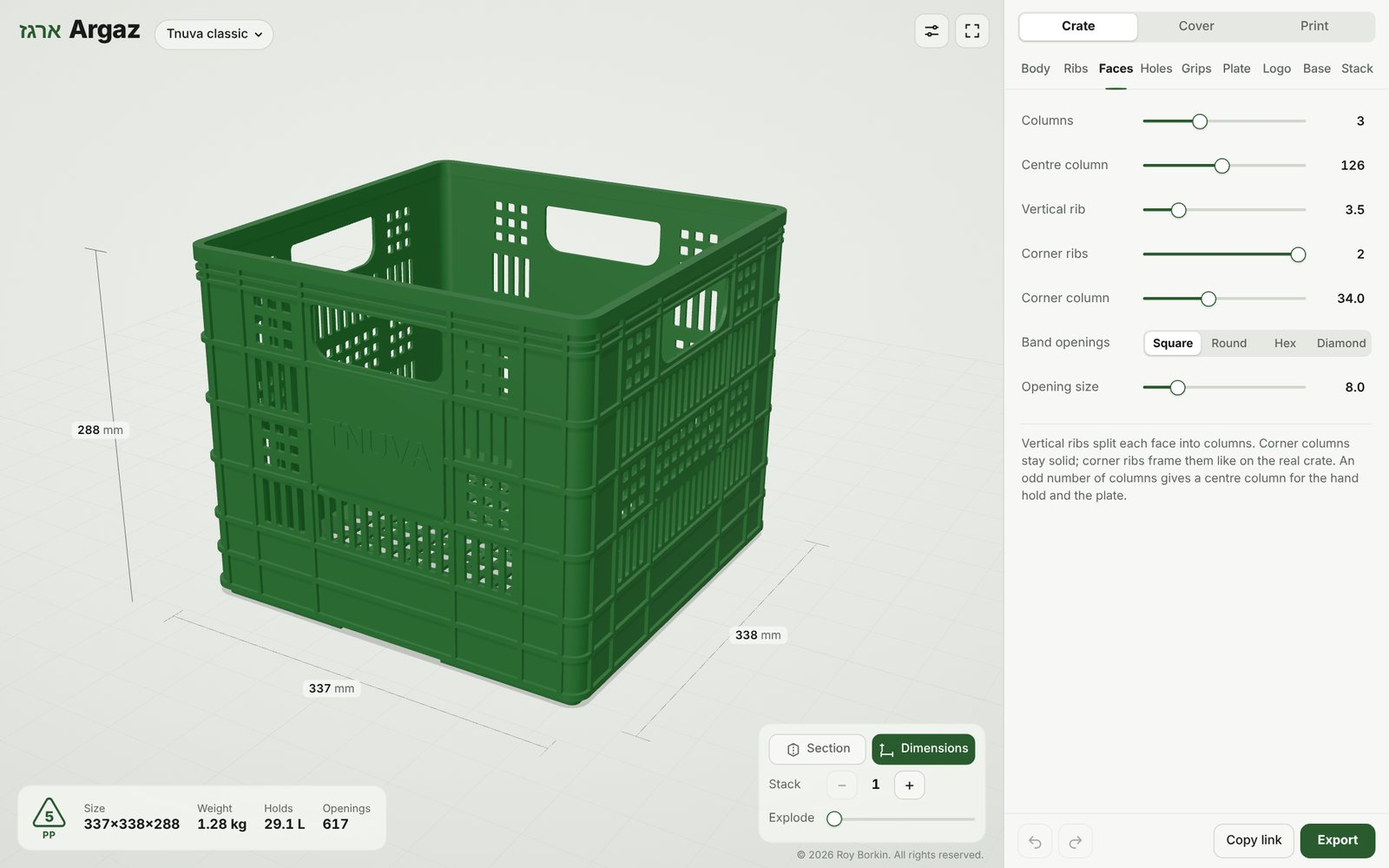
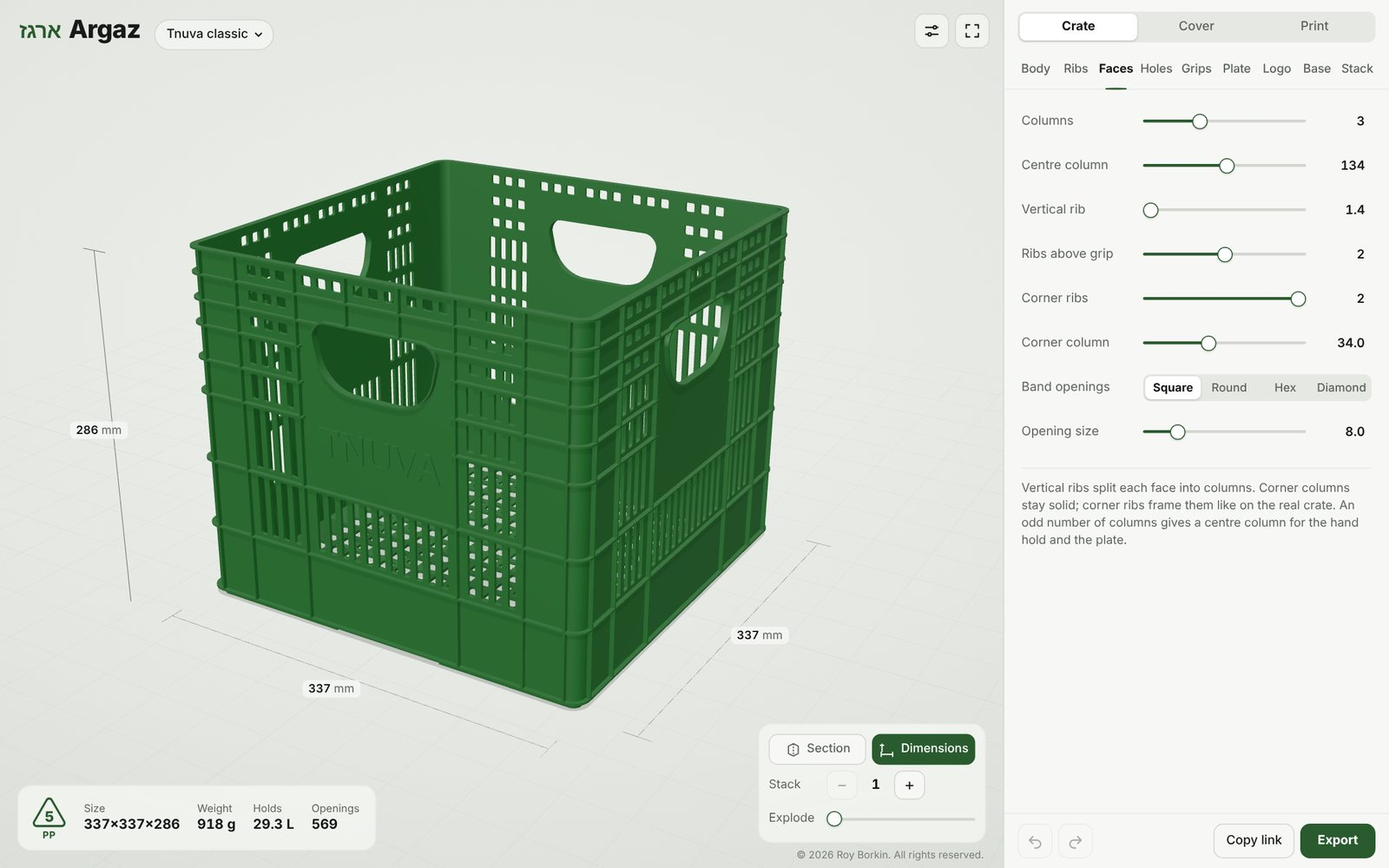
V3.5.2

diff --git a/js/params.js b/js/params.js
@@ -35,26 +35,27 @@ export const SCHEMA = [
   { key: 'sides', tab: 'body', label: 'Faces', type: 'range', min: 3, max: 12, step: 1, unit: '', def: 4, hint: 'Number of sides, from a triangle to a dodecagon' },
   { key: 'width', tab: 'body', label: 'Width', type: 'range', min: 120, max: 600, step: 1, unit: 'mm', def: 330, hint: 'Across flats' },
   { key: 'height', tab: 'body', label: 'Height', type: 'range', min: 60, max: 500, step: 1, unit: 'mm', def: 280 },
-  { key: 'corner', tab: 'body', label: 'Corner radius', type: 'range', min: 0, max: 80, step: 0.5, unit: 'mm', def: 12},
-  { key: 'wall', tab: 'body', label: 'Wall thickness', type: 'range', min: 1, max: 8, step: 0.1, unit: 'mm', def: 3, hint: 'Injection-moulded crates are usually 2.5 to 3.5 mm' },
+  { key: 'corner', tab: 'body', label: 'Corner radius', type: 'range', min: 0, max: 80, step: 0.5, unit: 'mm', def: 10},
+  { key: 'wall', tab: 'body', label: 'Wall thickness', type: 'range', min: 1, max: 8, step: 0.1, unit: 'mm', def: 2.5, hint: 'Injection-moulded crates are usually 2.5 to 3.5 mm' },
   { key: 'taper', tab: 'body', label: 'Draft', type: 'range', min: 0, max: 8, step: 0.1, unit: '°', def: 0, hint: 'Flares walls so crates nest' },
   { key: 'scale', tab: 'body', label: 'Scale', type: 'range', min: 0.1, max: 2, step: 0.01, unit: '×', def: 1 },
 
   // Ribs
-  { key: 'bandSizes', tab: 'ribs', label: 'Band layout', type: 'text', def: '48q 48 48q 48 28s 28s', placeholder: 'e.g. 48q 48 48q 48 28s', hint: 'Bands from top to bottom. q = small squares, s = solid' },
+  { key: 'bandSizes', tab: 'ribs', label: 'Band layout', type: 'text', def: '3.7q 3.7q 3.7q 5.3 5.3 11.1 11.1 11.1s', placeholder: 'e.g. 48q 48 48q 48 28s', hint: 'Bands from top to bottom. q = small squares, s = solid' },
   { key: 'ribCount', tab: 'ribs', label: 'Ribs', type: 'range', min: 0, max: 8, step: 1, unit: '', def: 3, show: (p) => !String(p.bandSizes || '').trim() },
   { key: 'ribLines', tab: null, label: 'Lines per rib', type: 'range', min: 1, max: 3, step: 1, unit: '', def: 1, hint: 'The Tnuva crate uses pairs of thin ribs' },
-  { key: 'ribHeight', tab: 'ribs', label: 'Rib band', type: 'range', min: 1, max: 30, step: 0.5, unit: 'mm', def: 4, hint: 'Total height of a rib, all lines included' },
+  { key: 'ribHeight', tab: 'ribs', label: 'Rib band', type: 'range', min: 1, max: 30, step: 0.5, unit: 'mm', def: 1.4, hint: 'Total height of a rib, all lines included' },
   { key: 'ribLineGap', tab: 'ribs', label: 'Line gap', type: 'range', min: 1, max: 12, step: 0.5, unit: 'mm', def: 5, show: (p) => p.ribLines > 1 || p.rimLines > 0 },
-  { key: 'ribDepth', tab: 'ribs', label: 'Rib depth', type: 'range', min: 0, max: 10, step: 0.1, unit: 'mm', def: 2.8, hint: 'How far ribs stand out from the wall' },
+  { key: 'ribDepth', tab: 'ribs', label: 'Rib depth', type: 'range', min: 0, max: 10, step: 0.1, unit: 'mm', def: 3.5, hint: 'How far ribs stand out from the wall' },
   { key: 'ribGrade', tab: 'ribs', label: 'Spacing grade', type: 'range', min: 0.6, max: 1.6, step: 0.01, unit: '', def: 1, hint: '<1 packs ribs toward the top', show: (p) => !String(p.bandSizes || '').trim() },
-  { key: 'baseBand', tab: 'ribs', label: 'Base band', type: 'range', min: 0, max: 40, step: 0.5, unit: 'mm', def: 5},
+  { key: 'baseBand', tab: 'ribs', label: 'Base band', type: 'range', min: 0, max: 40, step: 0.5, unit: 'mm', def: 1.6},
 
   // Faces
   { key: 'altBands', tab: 'faces', label: 'Alternate bands', type: 'toggle', half: true, def: true, hint: 'Every other band gets a grid of small openings, starting at the top. Ignored when Band layout is set', show: (p) => !String(p.bandSizes || '').trim() },
   { key: 'columns', tab: 'faces', label: 'Columns', type: 'range', min: 1, max: 7, step: 1, unit: '', def: 3},
-  { key: 'centerCol', tab: 'faces', label: 'Centre column', type: 'range', min: 0, max: 260, step: 1, unit: 'mm', def: 126, show: (p) => p.columns > 1 && p.columns % 2 === 1, hint: '0 makes all columns equal' },
-  { key: 'vRibWidth', tab: 'faces', label: 'Vertical rib', type: 'range', min: 1.5, max: 12, step: 0.5, unit: 'mm', def: 3.5, show: (p) => p.columns > 1 },
+  { key: 'centerCol', tab: 'faces', label: 'Centre column', type: 'range', min: 0, max: 260, step: 1, unit: 'mm', def: 134, show: (p) => p.columns > 1 && p.columns % 2 === 1, hint: '0 makes all columns equal' },
+  { key: 'vRibWidth', tab: 'faces', label: 'Vertical rib', type: 'range', min: 1.5, max: 12, step: 0.5, unit: 'mm', def: 1.4, show: (p) => p.columns > 1 },
+  { key: 'centerTopRibs', tab: 'faces', label: 'Ribs above grip', type: 'range', min: 0, max: 4, step: 1, unit: '', def: 2, show: (p) => p.columns % 2 === 1 && p.columns > 1 && p.handles, hint: 'Short vertical ribs in the centre column, from the hand hold up to the rim' },
   { key: 'cornerRibs', tab: 'faces', label: 'Corner ribs', type: 'range', min: 0, max: 2, step: 1, unit: '', def: 2, hint: '1: a rib at the inner edge of the corner column. 2: another at the corner itself' },
   { key: 'pillarWidth', tab: 'faces', label: 'Corner column', type: 'range', min: 4, max: 80, step: 0.5, unit: 'mm', def: 34, hint: 'Solid strip at each corner, measured along the flat face' },
   { key: 'altShape', tab: 'faces', label: 'Band openings', type: 'segment', options: [['rect', 'Square'], ['circle', 'Round'], ['hex', 'Hex'], ['diamond', 'Diamond']], def: 'rect', show: showIf('altBands') },
@@ -67,41 +68,44 @@ export const SCHEMA = [
   { key: 'holeWidth', tab: 'holes', label: 'Opening width', type: 'range', min: 3, max: 60, step: 0.5, unit: 'mm', def: 6, show: showIf('holes') },
   { key: 'holeHeight', tab: 'holes', label: 'Opening height', type: 'range', min: 3, max: 120, step: 0.5, unit: 'mm', def: 36, show: showIf('holes') },
   { key: 'holeGapX', tab: 'holes', label: 'Bar width', type: 'range', min: 2, max: 30, step: 0.5, unit: 'mm', def: 5, show: showIf('holes'), hint: 'Solid plastic left between neighbouring openings' },
-  { key: 'holeGapY', tab: 'holes', label: 'Row gap', type: 'range', min: 2, max: 30, step: 0.5, unit: 'mm', def: 6, show: showIf('holes') },
-  { key: 'holeMargin', tab: 'holes', label: 'Edge margin', type: 'range', min: 2, max: 40, step: 0.5, unit: 'mm', def: 6, show: showIf('holes') },
+  { key: 'holeGapY', tab: 'holes', label: 'Row gap', type: 'range', min: 2, max: 30, step: 0.5, unit: 'mm', def: 5, show: showIf('holes') },
+  { key: 'holeMargin', tab: 'holes', label: 'Edge margin', type: 'range', min: 2, max: 40, step: 0.5, unit: 'mm', def: 5, show: showIf('holes') },
   { key: 'holeRadius', tab: null, def: 1.5 },
 
   // Grips
   { key: 'handles', tab: 'grips', label: 'Hand holds', type: 'toggle', half: true, def: true },
-  { key: 'handleLip', tab: 'grips', label: 'Frame', type: 'toggle', half: true, def: false, show: showIf('handles') },
+  { key: 'handleLip', tab: 'grips', label: 'Frame', type: 'toggle', half: true, def: true, show: showIf('handles') },
   { key: 'handleFaces', tab: 'grips', label: 'On faces', type: 'segment', options: [['all', 'All'], ['pair', 'Opposite'], ['front', 'Front']], def: 'all', show: showIf('handles') },
   { key: 'handleShape', tab: 'grips', label: 'Shape', type: 'segment', options: [['tub', 'Tub'], ['rect', 'Rounded'], ['slot', 'Slot']], def: 'tub', show: showIf('handles'), hint: 'Tub: flat top under the rim, round bottom, like the real crate' },
-  { key: 'handleWidth', tab: 'grips', label: 'Grip width', type: 'range', min: 40, max: 200, step: 1, unit: 'mm', def: 112, show: showIf('handles') },
-  { key: 'handleHeight', tab: 'grips', label: 'Grip height', type: 'range', min: 15, max: 60, step: 0.5, unit: 'mm', def: 40, show: showIf('handles') },
-  { key: 'handleTop', tab: 'grips', label: 'From top', type: 'range', min: 6, max: 80, step: 0.5, unit: 'mm', def: 27, show: showIf('handles') },
-  { key: 'handleRadius', tab: 'grips', label: 'Top radius', type: 'range', min: 0, max: 20, step: 0.5, unit: 'mm', def: 4, show: (p) => p.handles && p.handleShape !== 'slot' },
-  { key: 'handleRadiusB', tab: 'grips', label: 'Bottom radius', type: 'range', min: 0, max: 40, step: 0.5, unit: 'mm', def: 16, show: (p) => p.handles && p.handleShape === 'tub' },
-  { key: 'handleLipWidth', tab: null, def: 3.5 },
+  { key: 'handleWidth', tab: 'grips', label: 'Grip width', type: 'range', min: 40, max: 200, step: 1, unit: 'mm', def: 104, show: showIf('handles') },
+  { key: 'handleHeight', tab: 'grips', label: 'Grip height', type: 'range', min: 15, max: 60, step: 0.5, unit: 'mm', def: 50, show: showIf('handles') },
+  { key: 'handleTop', tab: 'grips', label: 'From top', type: 'range', min: 6, max: 80, step: 0.5, unit: 'mm', def: 38, show: showIf('handles') },
+  { key: 'handleRadius', tab: 'grips', label: 'Top radius', type: 'range', min: 0, max: 20, step: 0.5, unit: 'mm', def: 12, show: (p) => p.handles && p.handleShape !== 'slot' },
+  { key: 'handleRadiusB', tab: 'grips', label: 'Bottom radius', type: 'range', min: 0, max: 60, step: 0.5, unit: 'mm', def: 32, show: (p) => p.handles && p.handleShape === 'tub' },
+  { key: 'handleTaper', tab: 'grips', label: 'Taper', type: 'range', min: 0, max: 0.5, step: 0.01, unit: '', def: 0.04, show: (p) => p.handles && p.handleShape === 'tub', hint: 'How much narrower the bottom of the hand hold is than the top' },
+  { key: 'handleLipWidth', tab: 'grips', label: 'Frame width', type: 'range', min: 0.6, max: 8, step: 0.1, unit: 'mm', def: 1.4, show: (p) => p.handles && p.handleLip },
 
   // Logo + label plate
   { key: 'logo', tab: 'logo', label: 'Logo', type: 'toggle', half: true, def: true },
-  { key: 'label', tab: 'plate', label: 'Label plate', type: 'toggle', half: true, def: true, hint: 'A raised panel behind the logo' },
+  { key: 'label', tab: 'plate', label: 'Panel', type: 'toggle', half: true, def: true, hint: 'A plain panel in the centre column, raised or flush' },
+  { key: 'plateClear', tab: 'plate', label: 'Ribs stop', type: 'toggle', half: true, def: true, show: (p) => p.label || p.logo, hint: 'Horizontal ribs stop at the panel edges, so the panel is plain like on the Grasshopper model' },
+  { key: 'plateFaces', tab: 'plate', label: 'On faces', type: 'segment', options: [['front', 'Front'], ['pair', 'Opposite'], ['all', 'All']], def: 'all', show: (p) => p.label || p.logo },
   { key: 'logoSource', tab: 'logo', label: 'Source', type: 'segment', options: [['text', 'Text'], ['image', 'Image']], def: 'text', show: showIf('logo') },
   { key: 'logoText', tab: 'logo', label: 'Text', type: 'text', def: 'TNUVA', show: (p) => p.logo && p.logoSource === 'text', placeholder: 'Type a name' },
   { key: 'logoImage', tab: 'logo', label: 'Image', type: 'file', accept: 'image/png,image/jpeg,image/svg+xml,image/webp', def: '', show: (p) => p.logo && p.logoSource === 'image', noUrl: true },
   { key: 'logoStyle', tab: 'logo', label: 'Style', type: 'segment', options: [['emboss', 'Raised'], ['engrave', 'Engraved'], ['cut', 'Cut through']], def: 'emboss', show: showIf('logo') },
   { key: 'logoDepth', tab: 'logo', label: 'Depth', type: 'range', min: 0.2, max: 4, step: 0.1, unit: 'mm', def: 1, show: (p) => p.logo && p.logoStyle !== 'cut', hint: 'Real millimetres: stays the same at any scale' },
   { key: 'logoFaces', tab: 'logo', label: 'On faces', type: 'segment', options: [['front', 'Front'], ['pair', 'Opposite'], ['all', 'All']], def: 'pair', show: showIf('logo') },
-  { key: 'labelBand', tab: 'plate', label: 'In band', type: 'range', min: 0, max: 6, step: 1, unit: '', def: 2, show: (p) => p.label || p.logo, hint: '0 places the plate freely with Height and Position' },
-  { key: 'labelSpan', tab: 'plate', label: 'Bands tall', type: 'range', min: 1, max: 4, step: 1, unit: '', def: 2, show: (p) => (p.label || p.logo) && p.labelBand > 0 },
-  { key: 'labelWidth', tab: 'plate', label: 'Plate width', type: 'range', min: 30, max: 260, step: 1, unit: 'mm', def: 114, show: (p) => p.label || p.logo },
+  { key: 'labelBand', tab: 'plate', label: 'In band', type: 'range', min: 0, max: 6, step: 1, unit: '', def: 3, show: (p) => p.label || p.logo, hint: '0 places the plate freely with Height and Position' },
+  { key: 'labelSpan', tab: 'plate', label: 'Bands tall', type: 'range', min: 1, max: 4, step: 1, unit: '', def: 4, show: (p) => (p.label || p.logo) && p.labelBand > 0 },
+  { key: 'labelWidth', tab: 'plate', label: 'Plate width', type: 'range', min: 30, max: 260, step: 1, unit: 'mm', def: 128, show: (p) => p.label || p.logo },
   { key: 'labelHeight', tab: 'plate', label: 'Plate height', type: 'range', min: 15, max: 160, step: 1, unit: 'mm', def: 40, show: (p) => (p.label || p.logo) && !(p.labelBand > 0) },
   { key: 'logoFont', tab: null, def: 'sans' },
   { key: 'labelZ', tab: 'plate', label: 'Position', type: 'range', min: 0.1, max: 0.9, step: 0.01, unit: '', def: 0.6, show: (p) => (p.label || p.logo) && !(p.labelBand > 0), hint: 'Height of the plate centre, as a share of the wall' },
-  { key: 'labelRaise', tab: 'plate', label: 'Raise', type: 'range', min: 0, max: 6, step: 0.1, unit: 'mm', def: 3.2, show: showIf('label'), hint: 'Raise it above the rib depth to hide the ribs behind it' },
+  { key: 'labelRaise', tab: 'plate', label: 'Raise', type: 'range', min: 0, max: 6, step: 0.1, unit: 'mm', def: 0, show: showIf('label'), hint: 'Raise it above the rib depth to hide the ribs behind it' },
 
   // Base
-  { key: 'floor', tab: 'base', label: 'Floor thickness', type: 'range', min: 1, max: 10, step: 0.1, unit: 'mm', def: 3 },
+  { key: 'floor', tab: 'base', label: 'Floor thickness', type: 'range', min: 1, max: 10, step: 0.1, unit: 'mm', def: 2.5},
   { key: 'floorPattern', tab: 'base', label: 'Floor', type: 'segment', options: [['none', 'Solid'], ['grid', 'Grid'], ['slots', 'Slots'], ['hex', 'Hex']], def: 'grid' },
   { key: 'floorHole', tab: 'base', label: 'Opening size', type: 'range', min: 3, max: 40, step: 0.5, unit: 'mm', def: 12, show: (p) => p.floorPattern !== 'none' },
   { key: 'floorSlotLen', tab: 'base', label: 'Slot length', type: 'range', min: 10, max: 120, step: 1, unit: 'mm', def: 40, show: (p) => p.floorPattern === 'slots' },
@@ -109,16 +113,16 @@ export const SCHEMA = [
   { key: 'floorMargin', tab: 'base', label: 'Floor margin', type: 'range', min: 2, max: 60, step: 0.5, unit: 'mm', def: 12, show: (p) => p.floorPattern !== 'none' },
 
   // Stack: rim, pillars, foot
-  { key: 'rimHeight', tab: 'stack', label: 'Top rim', type: 'range', min: 2, max: 40, step: 0.5, unit: 'mm', def: 11},
-  { key: 'rimDepth', tab: 'stack', label: 'Rim depth', type: 'range', min: 0, max: 12, step: 0.1, unit: 'mm', def: 3.5 },
-  { key: 'rimLines', tab: 'stack', label: 'Lines under rim', type: 'range', min: 0, max: 3, step: 1, unit: '', def: 2},
+  { key: 'rimHeight', tab: 'stack', label: 'Top rim', type: 'range', min: 2, max: 40, step: 0.5, unit: 'mm', def: 1.6},
+  { key: 'rimDepth', tab: 'stack', label: 'Rim depth', type: 'range', min: 0, max: 12, step: 0.1, unit: 'mm', def: 3.5},
+  { key: 'rimLines', tab: 'stack', label: 'Lines under rim', type: 'range', min: 0, max: 3, step: 1, unit: '', def: 0},
   { key: 'pillars', tab: 'stack', label: 'Corner pillars', type: 'toggle', half: true, def: false, hint: 'Corner columns stand proud of the wall' },
   { key: 'foot', tab: 'stack', label: 'Stacking foot', type: 'toggle', half: true, def: true, hint: 'Locks into the crate below' },
-  { key: 'footHeight', tab: 'stack', label: 'Foot height', type: 'range', min: 2, max: 30, step: 0.5, unit: 'mm', def: 8, show: showIf('foot') },
-  { key: 'footClear', tab: 'stack', label: 'Fit clearance', type: 'range', min: 0, max: 4, step: 0.05, unit: 'mm', def: 0.8, show: showIf('foot') },
+  { key: 'footHeight', tab: 'stack', label: 'Foot height', type: 'range', min: 2, max: 30, step: 0.5, unit: 'mm', def: 6, show: showIf('foot') },
+  { key: 'footClear', tab: 'stack', label: 'Fit clearance', type: 'range', min: 0, max: 4, step: 0.05, unit: 'mm', def: 0.6, show: showIf('foot') },
   { key: 'pillarDepth', tab: null, def: 2.5 },
-  { key: 'rimInner', tab: null, def: 1.5 },
-  { key: 'footWall', tab: null, def: 3 },
+  { key: 'rimInner', tab: 'stack', label: 'Inner lip', type: 'range', min: 0, max: 6, step: 0.1, unit: 'mm', def: 0, hint: 'Thickens the rim on the inside. The foot is sized to drop inside it' },
+  { key: 'footWall', tab: 'stack', label: 'Foot wall', type: 'range', min: 0.8, max: 6, step: 0.1, unit: 'mm', def: 2, show: showIf('foot') },
 
   // View popover (preview only, no rebuild)
   { key: 'color', tab: 'view', label: 'Colour', type: 'swatches', options: ['#295B2E', '#1E4FA0', '#2AA7E0', '#E2367E', '#2B2F2C', '#E8E6DF', '#F2B705'], def: '#295B2E', live: true },
@@ -202,18 +206,35 @@ const BASIC = {
   holeShape: 'slot', holeWidth: 9, holeGapX: 6, holeGapY: 7, holeMargin: 8, holeRadius: 2,
   handleShape: 'slot', handleLip: false, handleWidth: 110, handleHeight: 32, handleTop: 20, handleRadius: 8,
   logo: false, labelBand: 0, labelWidth: 120, labelHeight: 44, labelZ: 0.42, labelRaise: 1,
+  handleTaper: 0, plateClear: false, plateFaces: 'front', centerTopRibs: 0, rimInner: 1.5, footHeight: 8, footWall: 3, footClear: 0.8, wall: 3, floor: 3,
+};
+
+// The previous classic, matched to the photo only (before the Grasshopper model was used).
+const PHOTO = { width: 330, height: 280, corner: 12, wall: 3, ribHeight: 4, ribLineGap: 5, ribDepth: 2.8, baseBand: 5, rimHeight: 11, rimDepth: 3.5, rimLines: 2, rimInner: 1.5, columns: 3, centerCol: 126, vRibWidth: 3.5, altSize: 8, holeShape: 'rect', holeWidth: 6, holeGapX: 5, holeGapY: 6, holeMargin: 6, handleWidth: 112, handleHeight: 40, handleTop: 27, handleLip: false, handleLipWidth: 3.5, handleRadius: 4, handleRadiusB: 16, labelWidth: 114, labelBand: 2, labelSpan: 2, labelRaise: 3.2, bandSizes: '48q 48 48q 48 28s 28s', cornerRibs: 2, pillarWidth: 34, footHeight: 8, footWall: 3, footClear: 0.8, floor: 3, handleTaper: 0, plateClear: false, plateFaces: 'front', centerTopRibs: 0 };
+
+// Exact proportions of the Grasshopper definition (TNUVA.gh) at 280 mm: 1 unit = 5.09 mm, no openings.
+const GH = {
+  width: 291, height: 280, corner: 10.2, wall: 1.5, floor: 1.5,
+  bandSizes: '3.7 3.7 3.7 5.3 5.3 11.1 11.1 11.1', ribHeight: 1, ribDepth: 3.6, vRibWidth: 1, rimHeight: 1, rimDepth: 3.6, rimLines: 0, rimInner: 0, baseBand: 1,
+  columns: 3, centerCol: 134, pillarWidth: 33.3, cornerRibs: 2, centerTopRibs: 2, pillars: false,
+  holes: false, floorPattern: 'none',
+  handleShape: 'tub', handleWidth: 96, handleHeight: 49, handleTop: 37.4, handleRadius: 12.5, handleRadiusB: 34, handleTaper: 0.04, handleLip: true, handleLipWidth: 1,
+  label: true, plateClear: true, plateFaces: 'all', labelBand: 3, labelSpan: 4, labelWidth: 132, labelRaise: 0, logo: false,
+  foot: true, footHeight: 3.6, footWall: 1.4, footClear: 0.36,
 };
 
 export const PRESETS = [
   { id: 'classic', name: 'Tnuva classic', p: {} },
+  { id: 'gh', name: 'Tnuva Grasshopper', p: { ...GH } },
+  { id: 'photo', name: 'Tnuva photo', p: { ...PHOTO } },
   { id: 'basic', name: 'Tnuva basic', p: { ...BASIC } },
   { id: 'tall', name: 'Tall bottle crate', p: { ...BASIC, height: 360, ribCount: 4, altBands: false, holeShape: 'rect', holeWidth: 14, holeHeight: 20, holeFill: false, color: '#1E4FA0' } },
   { id: 'hex', name: 'Hex bin', p: { ...BASIC, sides: 6, width: 300, height: 220, corner: 10, columns: 1, altBands: false, ribLines: 1, ribHeight: 6, holeShape: 'hex', holeWidth: 16, holeHeight: 16, holeFill: false, handleFaces: 'pair', logo: false, label: false, floorPattern: 'hex', color: '#F2B705' } },
   { id: 'nest', name: 'Nesting tray', p: { ...BASIC, height: 140, taper: 5, ribCount: 1, foot: false, columns: 1, altBands: false, holeShape: 'slot', holeWidth: 8, handleFaces: 'pair', logo: false, label: false, color: '#E2367E' } },
-  { id: 'desk', name: 'Desk organiser', p: { scale: 0.3, wall: 5, floor: 5, logoDepth: 0.6, color: '#2AA7E0' } },
-  { id: 'stool', name: 'Crate stool', p: { cover: true, lidThick: 5, lidLip: false, seat: 'straps', cushion: true, lidRibs: 'radial', lidRibDepth: 10, color: '#2B2F2C' } },
-  { id: 'print', name: 'Print kit, ⅓ scale', p: { scale: 0.33, wall: 6, floor: 6, ribHeight: 15, ribDepth: 4, baseBand: 20, logoDepth: 0.8, labelRaise: 4.5, printReady: true, sections: 2, cover: true, color: '#E2367E' } },
-  { id: 'full', name: 'Full size on a 256 bed', p: { ribHeight: 8, printReady: true, sections: 2, vSplit: 'quarters', joint: 'glue' } },
+  { id: 'desk', name: 'Desk organiser', p: { ...PHOTO, scale: 0.3, wall: 5, floor: 5, logoDepth: 0.6, color: '#2AA7E0' } },
+  { id: 'stool', name: 'Crate stool', p: { ...PHOTO, cover: true, lidThick: 5, lidLip: false, seat: 'straps', cushion: true, lidRibs: 'radial', lidRibDepth: 10, color: '#2B2F2C' } },
+  { id: 'print', name: 'Print kit, ⅓ scale', p: { ...PHOTO, scale: 0.33, wall: 6, floor: 6, ribHeight: 15, ribDepth: 4, baseBand: 20, logoDepth: 0.8, labelRaise: 4.5, printReady: true, sections: 2, cover: true, color: '#E2367E' } },
+  { id: 'full', name: 'Full size on a 256 bed', p: { ...PHOTO, ribHeight: 8, printReady: true, sections: 2, vSplit: 'quarters', joint: 'glue' } },
 ];
 
 // Compact URL hash encoding: only values that differ from defaults (images stay out of the URL).

diff --git a/js/crate.js b/js/crate.js
@@ -82,6 +82,27 @@ export function buildSet(wasm, P, quality = 1, logo = null) {
     if (rBot < 0.05) pts.push([x1, y0]); else arc(x1 - rBot, y0 + rBot, rBot, Math.PI * 1.5);
     return pts;
   }
+  function tubTaper(w, h, rTop, rBot, taper, cx, cy) {
+    const wb = w * (1 - Math.min(0.6, taper));
+    rTop = Math.max(0.2, Math.min(rTop, w / 2 - 0.1, h / 2 - 0.1));
+    rBot = Math.max(0.2, Math.min(rBot, wb / 2 - 0.1, h - rTop - 0.1));
+    const pts = [], n = quality >= 1 ? 14 : 7;
+    // quarter arcs only, so a bottom radius larger than half the height never pokes above the top edge
+    const arc = (x, y, rad, a0) => { for (let i = 0; i <= n; i++) { const th = a0 + (Math.PI / 2) * (i / n); pts.push([x + rad * Math.cos(th), y + rad * Math.sin(th)]); } };
+    arc(cx + w / 2 - rTop, cy + h / 2 - rTop, rTop, 0);
+    arc(cx - w / 2 + rTop, cy + h / 2 - rTop, rTop, Math.PI / 2);
+    arc(cx - wb / 2 + rBot, cy - h / 2 + rBot, rBot, Math.PI);
+    arc(cx + wb / 2 - rBot, cy - h / 2 + rBot, rBot, Math.PI * 1.5);
+    return hull2d(pts);
+  }
+  function hull2d(p) {
+    p = p.slice().sort((a, b) => a[0] - b[0] || a[1] - b[1]);
+    const cr = (o, a, b) => (a[0] - o[0]) * (b[1] - o[1]) - (a[1] - o[1]) * (b[0] - o[0]);
+    const lo = [], up = [];
+    for (const q of p) { while (lo.length >= 2 && cr(lo[lo.length - 2], lo[lo.length - 1], q) <= 0) lo.pop(); lo.push(q); }
+    for (let i = p.length - 1; i >= 0; i--) { const q = p[i]; while (up.length >= 2 && cr(up[up.length - 2], up[up.length - 1], q) <= 0) up.pop(); up.push(q); }
+    return lo.slice(0, -1).concat(up.slice(0, -1));
+  }
   function holeShape(shape, w, h, rr, cx, cy) {
     const segs = quality >= 1 ? 6 : 3;
     switch (shape) {
@@ -93,7 +114,7 @@ export function buildSet(wasm, P, quality = 1, logo = null) {
       case 'hex': { const pts = []; for (let i = 0; i < 6; i++) pts.push([cx + (w / 2) * Math.cos((i / 6) * TAU), cy + (h / 2) * Math.sin((i / 6) * TAU)]); return pts; }
       case 'diamond': return [[cx + w / 2, cy], [cx, cy + h / 2], [cx - w / 2, cy], [cx, cy - h / 2]];
       case 'rect': return roundedRect(w, h, rr, cx, cy, segs);
-      case 'tub': return tubRect(w, h, rr, P.handleRadiusB, cx, cy, segs * 2);
+      case 'tub': return (P.handleTaper || 0) > 0.001 ? tubTaper(w, h, rr, P.handleRadiusB, P.handleTaper, cx, cy) : tubRect(w, h, rr, P.handleRadiusB, cx, cy, segs * 2);
       default: return roundedRect(w, h, Math.min(w, h) / 2, cx, cy, segs);
     }
   }
@@ -199,10 +220,11 @@ export function buildSet(wasm, P, quality = 1, logo = null) {
     const top = Math.min(zones.length, Math.round(P.labelBand)), span = Math.max(1, Math.round(P.labelSpan));
     const zTop = zones[zones.length - top], zBot = zones[Math.max(0, zones.length - top - span + 1)];
     label.zc = (zTop.z1 + zBot.z0) / 2;
-    label.h = zTop.z1 - zBot.z0 + 2;
+    // a raised plate overlaps the ribs around it; a flush panel stays inside its bands so those ribs remain
+    label.h = zTop.z1 - zBot.z0 + (P.labelRaise > 0.05 ? 2 : -0.2);
   }
   const onFaces = (mode, k) => mode === 'all' || (mode === 'pair' && (N % 2 === 0 ? k % (N / 2) === 0 : k === 0)) || k === 0;
-  const labelFace = (k) => !!label && (k === 0 || (logoOn && onFaces(P.logoFaces, k)));
+  const labelFace = (k) => !!label && (onFaces(P.plateFaces || 'front', k) || (logoOn && onFaces(P.logoFaces, k)));
   const handle = P.handles ? { w: Math.min(P.handleWidth, straight - 10), h: Math.min(P.handleHeight, H * 0.4), top: H - P.handleTop } : null;
   const handleFace = (k) => !!handle && (P.handleFaces === 'all' || (P.handleFaces === 'pair' && (N % 2 === 0 ? k % (N / 2) === 0 : k === 0)) || (P.handleFaces === 'front' && k === 0));
 
@@ -254,8 +276,19 @@ export function buildSet(wasm, P, quality = 1, logo = null) {
         if (rows < 1 || rowH < 2) return;
         const totalH = rows * rowH + (rows - 1) * gy;
         const zc0 = (zn.z0 + zn.z1) / 2 - totalH / 2 + rowH / 2;
+        // column intervals; above the hand hold the centre column is split again by the short ribs there
+        const spans = [];
         for (let c = 0; c < colBounds.length - 1; c++) {
           const x0 = colBounds[c] + (c > 0 ? vrw / 2 + gx * 0.6 : 0), x1 = colBounds[c + 1] - (c < colBounds.length - 2 ? vrw / 2 + gx * 0.6 : 0);
+          const isMid = colsN % 2 === 1 && colsN > 1 && c === (colsN - 1) / 2;
+          if (isMid && handleFace(k) && P.centerTopRibs > 0 && zn.z0 >= handle.top - 1) {
+            const n = Math.round(P.centerTopRibs), cx0 = colBounds[c], cx1 = colBounds[c + 1];
+            let left = x0;
+            for (let i = 1; i <= n; i++) { const xr = cx0 + ((cx1 - cx0) * i) / (n + 1); spans.push([left, xr - vrw / 2 - gx * 0.6]); left = xr + vrw / 2 + gx * 0.6; }
+            spans.push([left, x1]);
+          } else spans.push([x0, x1]);
+        }
+        for (const [x0, x1] of spans) {
           const inner = x1 - x0;
           const cols = Math.floor((inner + gx) / (w + gx));
           if (cols < 1) continue;
@@ -276,7 +309,7 @@ export function buildSet(wasm, P, quality = 1, logo = null) {
     if (handleFace(k)) {
       const hs = holeShape(P.handleShape === 'rect' || P.handleShape === 'tub' ? P.handleShape : 'slot', handle.w, handle.h, P.handleRadius, 0, handle.top - handle.h / 2);
       polys.push(hs);
-      handleCutters.push(faceXform(T(cs([hs]).extrude(80, 0, 0, 1, true)), k, 0, 0, 0));
+      handleCutters.push(faceXform(T(T(cs([hs]).extrude(80)).translate([0, 0, -40])), k, 0, 0, 0));
       if (P.handleLip && P.handleLipWidth > 0.2) {
         const frame = T(CrossSection.difference(T(cs([hs]).offset(P.handleLipWidth, 'Round', 2, 24)), cs([hs])));
         handleLips.push(faceXform(T(frame.extrude(Math.max(P.rimDepth, P.ribDepth) + t * 0.5)), k, -t * 0.5, 0, 0));
@@ -306,18 +339,38 @@ export function buildSet(wasm, P, quality = 1, logo = null) {
 
   // bands (+ 45° chamfers under them in print mode so they print without supports)
   const bandSolids = [];
+  const lineSolids = []; // horizontal rib lines: these stop at a plain centre panel
   for (const b of bands) {
     b.lines.forEach(([z0, z1, depth], li) => {
       if (depth <= 0.05) return;
-      bandSolids.push(ring(depth, -t * 0.5, z0, z1));
+      (b.kind === 'rib' ? lineSolids : bandSolids).push(ring(depth, -t * 0.5, z0, z1));
       if (printMode && z0 > 0.5) {
         // room below this line: the gap to the next line down, or the hole margin at the bottom of the band
         const below = b.kind === 'rim' ? (li === b.lines.length - 1 ? holeM * 0.6 - 0.3 : rimGap - 0.2) : li === 0 ? holeM * 0.6 - 0.3 : lgap - 0.2;
         const ch = Math.max(0.6, Math.min(depth + t * 0.5, below, z0 - 0.5));
         const fr = hull([slab(depth, z0, z0 + 0.01), slab(-t * 0.5, z0 - ch, z0 - ch + 0.01)]);
-        bandSolids.push(diff(fr, slab(-t * 0.6, z0 - ch - 1, z0 + 1)));
+        (b.kind === 'rib' ? lineSolids : bandSolids).push(diff(fr, slab(-t * 0.6, z0 - ch - 1, z0 + 1)));
       }
     });
+  }
+  {
+    let lines = union(lineSolids);
+    if (lines && label && P.plateClear) {
+      // the centre panel is plain: rib lines stop at its edges (like the Grasshopper model)
+      const cut = [];
+      for (let k = 0; k < N; k++) if (labelFace(k)) cut.push(faceXform(T(cs([roundedRect(label.w, label.h, 0)]).extrude(40)), k, 0.01, label.zc, 0));
+      if (cut.length) lines = diff(lines, union(cut));
+    }
+    if (lines) bandSolids.push(lines);
+  }
+  // short vertical ribs in the centre column, above the hand hold
+  if (handle && P.centerTopRibs > 0 && colsN % 2 === 1 && colsN > 1) {
+    const mid = (colsN - 1) / 2, cx0 = colBounds[mid], cx1 = colBounds[mid + 1], n = Math.round(P.centerTopRibs);
+    const zb = handle.top, h2 = H - zb;
+    if (h2 > 1) for (let k = 0; k < N; k++) if (handleFace(k)) for (let i = 1; i <= n; i++) {
+      const x = cx0 + ((cx1 - cx0) * i) / (n + 1);
+      bandSolids.push(faceXform(T(cs([roundedRect(vrw, h2, 0, x, zb + h2 / 2)]).extrude(P.ribDepth + t * 0.5)), k, -t * 0.5, 0, 0));
+    }
   }
   // vertical ribs between the columns
   if ((vRibXs.length || cornerXs.length) && P.ribDepth > 0.05) {
@@ -354,14 +407,21 @@ export function buildSet(wasm, P, quality = 1, logo = null) {
     return T(T(logoCSCache.translate([-0.5, -logo.aspect / 2])).scale(k));
   };
   if (logoOn) {
-    const sh = logoShape(label.w * 0.82, label.h * 0.72);
     const surf = label.plate ? P.labelRaise : 0;
     const depth = abs(P.logoDepth);
     for (let k = 0; k < N; k++) {
       if (!(k === 0 || onFaces(P.logoFaces, k))) continue;
-      if (P.logoStyle === 'emboss') bandSolids.push(faceXform(T(sh.extrude(depth + 0.1)), k, surf - 0.1, label.zc, 0));
-      else if (P.logoStyle === 'engrave') logoCuts.push(faceXform(T(sh.extrude(depth + 1)), k, surf - Math.min(depth, (t + surf) * 0.7), label.zc, 0));
-      else logoCuts.push(faceXform(T(sh.extrude(t + surf + 4)), k, -t - 2, label.zc, 0));
+      // free space on the panel: below the hand hold if it reaches into the panel
+      let zc = label.zc, hMax = label.h * 0.72;
+      const pTop = label.zc + label.h / 2, pBot = label.zc - label.h / 2;
+      if (handleFace(k)) {
+        const hb = handle.top - handle.h - (P.handleLip ? P.handleLipWidth : 0) - 2;
+        if (hb < pTop && hb > pBot + 8) { zc = (hb + pBot) / 2; hMax = (hb - pBot) * 0.7; }
+      }
+      const sh = logoShape(label.w * 0.82, hMax);
+      if (P.logoStyle === 'emboss') bandSolids.push(faceXform(T(sh.extrude(depth + 0.1)), k, surf - 0.1, zc, 0));
+      else if (P.logoStyle === 'engrave') logoCuts.push(faceXform(T(sh.extrude(depth + 1)), k, surf - Math.min(depth, (t + surf) * 0.7), zc, 0));
+      else logoCuts.push(faceXform(T(sh.extrude(t + surf + 4)), k, -t - 2, zc, 0));
     }
   }
   {
@@ -450,6 +510,12 @@ export function buildSet(wasm, P, quality = 1, logo = null) {
     for (let i = 0; i < zones.length && zones[i].code === 's'; i++) baseTop = Math.max(baseTop, zones[i].z1);
     const joints = cands.map((c) => {
       if (c.base) c = { ...c, band: { ...c.band, z1: baseTop } };
+      else {
+        // a thin rib line can lend the opening-free margin above it to the joint
+        const above = zones.find((zn) => zn.z0 >= c.band.z1 - 0.01);
+        const extra = above ? (above.code === 's' ? above.z1 - above.z0 : Math.max(0, holeM * 0.6 - 0.6)) : 0;
+        c = { ...c, band: { ...c.band, z1: c.band.z1 + extra } };
+      }
       const bandH = c.band.z1 - c.band.z0;
       let zs = c.band.z0 + 0.3;
       if (c.base) zs = floorAt === 'foot' ? 0.3 : Math.max(tf + 0.5, 0.3);

diff --git a/css/app.css b/css/app.css
@@ -419,7 +419,7 @@ button { cursor: pointer; -webkit-user-select: none; user-select: none; touch-ac
   .tabs { padding: 2px 6px 0; }
   .modes { margin: 10px 12px 0; height: 30px; }
   .tab { font-size: 12px; padding: 10px 0 9px; }
-  .pane { padding: 6px 16px 4px; height: calc(var(--row) * 7 + 10px); grid-auto-rows: min(var(--row), calc(var(--row) * 7 / var(--n, 7))); }
+  .pane { padding: 6px 16px 4px; height: max(calc(var(--row) * 7 + 10px), calc(25px * var(--n, 7) + 10px)); grid-auto-rows: max(25px, min(var(--row), calc(var(--row) * 7 / var(--n, 7)))); }
   .help { display: none; }
   .ctl-range { grid-template-columns: minmax(84px, 30%) minmax(0, 1fr) 54px; gap: 8px; }
   .ctl-seg, .ctl-swatch, .ctl-text, .ctl-file { grid-template-columns: minmax(84px, 30%) minmax(0, 1fr); gap: 8px; }

diff --git a/README.md b/README.md
@@ -34,9 +34,38 @@ On phones the controls move into a bottom sheet; every tab fits on one screen wi
   <img src="docs/app-phone-holes.jpg" alt="Argaz on a phone, two blue crates stacked, Holes tab" width="260">
 </p>
 
+## Matching the Grasshopper model
+
+The original Grasshopper definition (TNUVA.gh) was exported to OBJ and measured: the faces were sliced and rendered as relief maps, and every rib, panel and opening position was read off and converted at 280 mm height (1 unit = 5.09 mm). The **Tnuva Grasshopper** preset reproduces it; **Tnuva classic** (the default) uses the same structure with the openings from the photo.
+
+| Grasshopper model (OBJ) | Tnuva Grasshopper preset |
+| --- | --- |
+| ![Grasshopper OBJ render](docs/gh-model.jpg) | ![The same crate built in Argaz](docs/app-gh.jpg) |
+
+Face-on relief maps, Grasshopper on the left, Argaz on the right (light = ribs standing proud of the wall):
+
+![Relief comparison of one face](docs/gh-relief-compare.jpg)
+
+What the model showed, and the settings that now cover it:
+
+| In the Grasshopper model | Setting |
+| --- | --- |
+| Thin rib lines (0.2 × 0.7 units ≈ 1 × 3.6 mm), not thick bands; wall 0.3 units ≈ 1.5 mm | Ribs › Rib band, Rib depth; Faces › Vertical rib; Body › Wall thickness |
+| Rib spacing graded toward the top: three lines at 55/15, two at about 5.3, then about 11.1 | Ribs › Band layout `3.7 3.7 3.7 5.3 5.3 11.1 11.1 11.1` |
+| The top and bottom edges are thin flanges, not thick bands | Stack › Top rim, Rim depth; Ribs › Base band |
+| Vertical ribs at the corner, at the corner column edge and at the centre column edges (equal 6.6-unit pitch) | Faces › Corner ribs, Corner column, Columns, Centre column |
+| Two short ribs in the centre column above the hand hold | Faces › Ribs above grip |
+| Plain centre panel under the hand hold: rib lines stop at its edges, on every face | Plate › Panel, Ribs stop, On faces, In band, Bands tall, Raise 0 |
+| Hand hold: flat top, deep round bottom, slight taper, thin raised frame | Grips › Shape Tub, Top radius, Bottom radius, Taper, Frame width |
+| Narrow foot ring just inside the wall line | Stack › Foot height, Foot wall, Fit clearance, Inner lip 0 |
+
+The logo now sits in the free part of the panel, below the hand hold, and openings above the hand hold are split between the short ribs. The previous default is kept as the **Tnuva photo** preset.
+
+![Tnuva classic: Grasshopper structure with the photo's openings](docs/classic-relief.jpg)
+
 ## Matching the real crate
 
-The **Tnuva classic** preset (the default) was rebuilt against a photo of the real crate. The first version is kept as **Tnuva basic**.
+The photo-based version of the crate is kept as the **Tnuva photo** preset and the first version as **Tnuva basic**.
 
 | Detail on the real crate | Parameter |
 | --- | --- |
